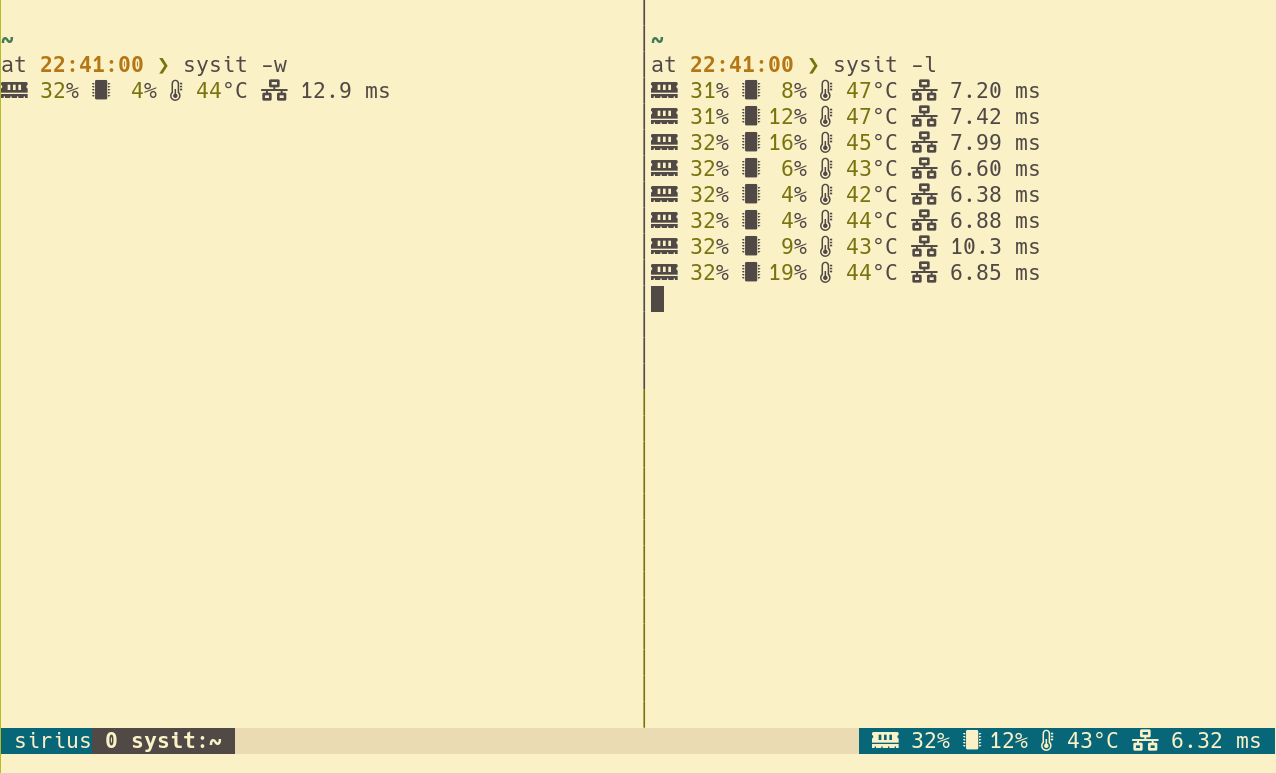
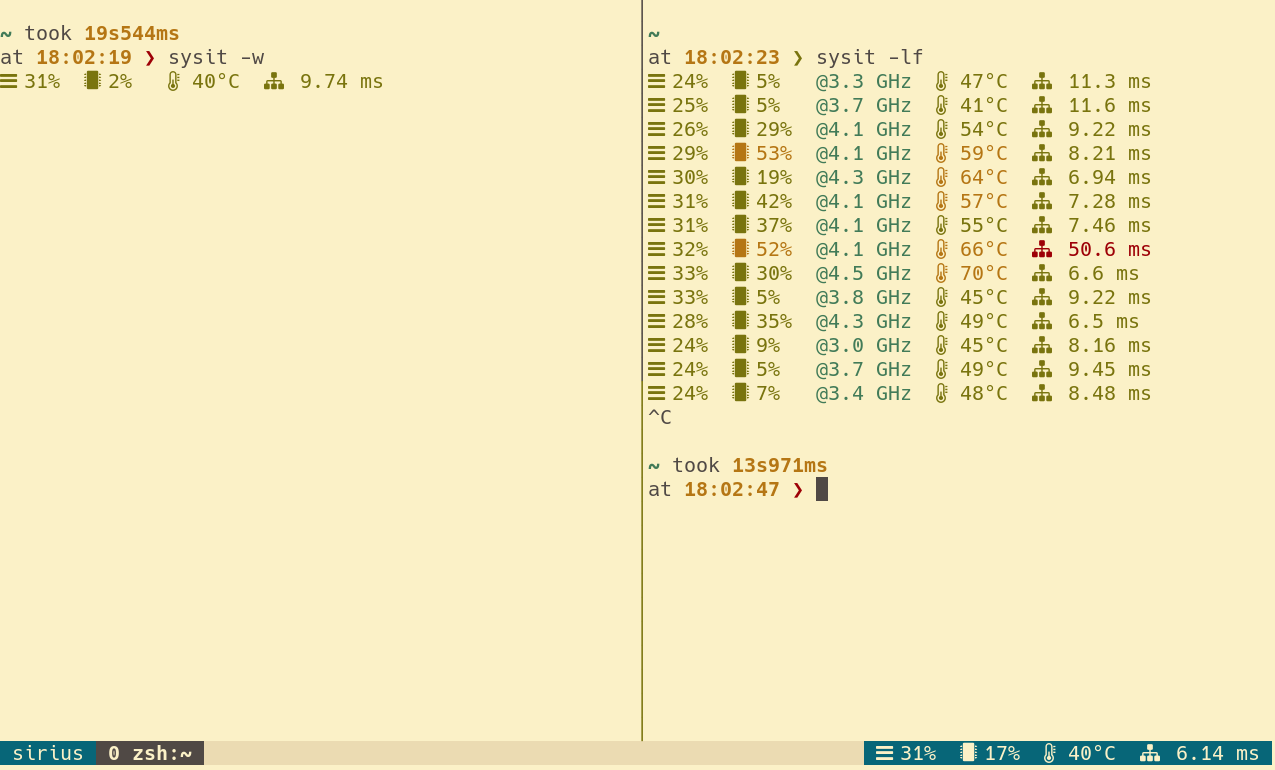
Add colorization support to ping output

diff --git a/src/ping.rs b/src/ping.rs
@@ -15,37 +15,43 @@ You should have received a copy of the GNU General Public License along with
 this program.  If not, see <https://www.gnu.org/licenses/>.
 */
 
+use super::colors::colorize;
 use std::io::{BufRead, Result};
 use std::process::Command;
 use std::sync::{Arc, Mutex};
 use std::thread;
 use std::time::Duration;
 
-fn parse_ping(output: Result<String>) -> Option<String> {
+type Ping = (f32, String);
+
+fn parse_ping(output: Result<String>) -> Option<Ping> {
     let output = output.ok()?;
     if output.contains("time=") {
-        Some(String::from(output.split("=").last().unwrap()))
+        let mut ping_output = output.split("=").last().unwrap().split(" ");
+        let ping: f32 = ping_output.next().unwrap().parse().unwrap();
+        let unit = ping_output.next().unwrap();
+        Some((ping, unit.to_string()))
     } else {
         None
     }
 }
 
-pub struct Ping {
-    ping: Arc<Mutex<Option<String>>>,
+pub struct PingManager {
+    ping: Arc<Mutex<Option<Ping>>>,
     host: String,
 }
 
-impl Ping {
-    pub fn new(host: String) -> Ping {
-        let ping = Ping {
+impl PingManager {
+    pub fn new(host: String) -> PingManager {
+        let ping_manager = PingManager {
             host,
             ping: Arc::new(Mutex::new(None)),
         };
-        ping.start();
-        ping
+        ping_manager.start();
+        ping_manager
     }
 
-    fn start(self: &Ping) -> () {
+    fn start(self: &PingManager) -> () {
         // Start the ping subprocess and its monitoring thread.
         let ping = self.ping.clone();
         let host = self.host.clone();
@@ -67,7 +73,7 @@ impl Ping {
         });
     }
 
-    pub fn wait(self: &Ping) -> () {
+    pub fn wait(self: &PingManager) -> () {
         // Wait (at most 200ms) for the first ping.
         for _ in 0..20 {
             if self.ping.lock().unwrap().is_some() {
@@ -77,11 +83,11 @@ impl Ping {
         }
     }
 
-    pub fn current(self: &Ping) -> String {
+    pub fn current(self: &PingManager) -> String {
         // Get the current ping (or N/A if we couldn't obtain it)
         match self.ping.lock().unwrap().as_ref() {
             None => "N/A".to_string(),
-            Some(ping) => format!("  {}", ping),
+            Some(ping) => colorize(format!("  {} {}", ping.0, ping.1), ping.0, 30.0, 100.0),
         }
     }
 }

diff --git a/src/main.rs b/src/main.rs
@@ -37,7 +37,7 @@ const CARRIAGE_RETURN: char = '\r';
 struct State {
     config: Config,
     system: System,
-    ping: ping::Ping,
+    ping: ping::PingManager,
 }
 
 fn line(state: &State) -> String {
@@ -59,7 +59,7 @@ fn render_line(delimiter: char, state: &mut State) -> () {
 fn main() -> Result<()> {
     let config: Config = Config::parse();
     let system = System::new_all();
-    let ping = ping::Ping::new(config.ping_host.clone());
+    let ping = ping::PingManager::new(config.ping_host.clone());
     ping.wait();
 
     if config.colors {
